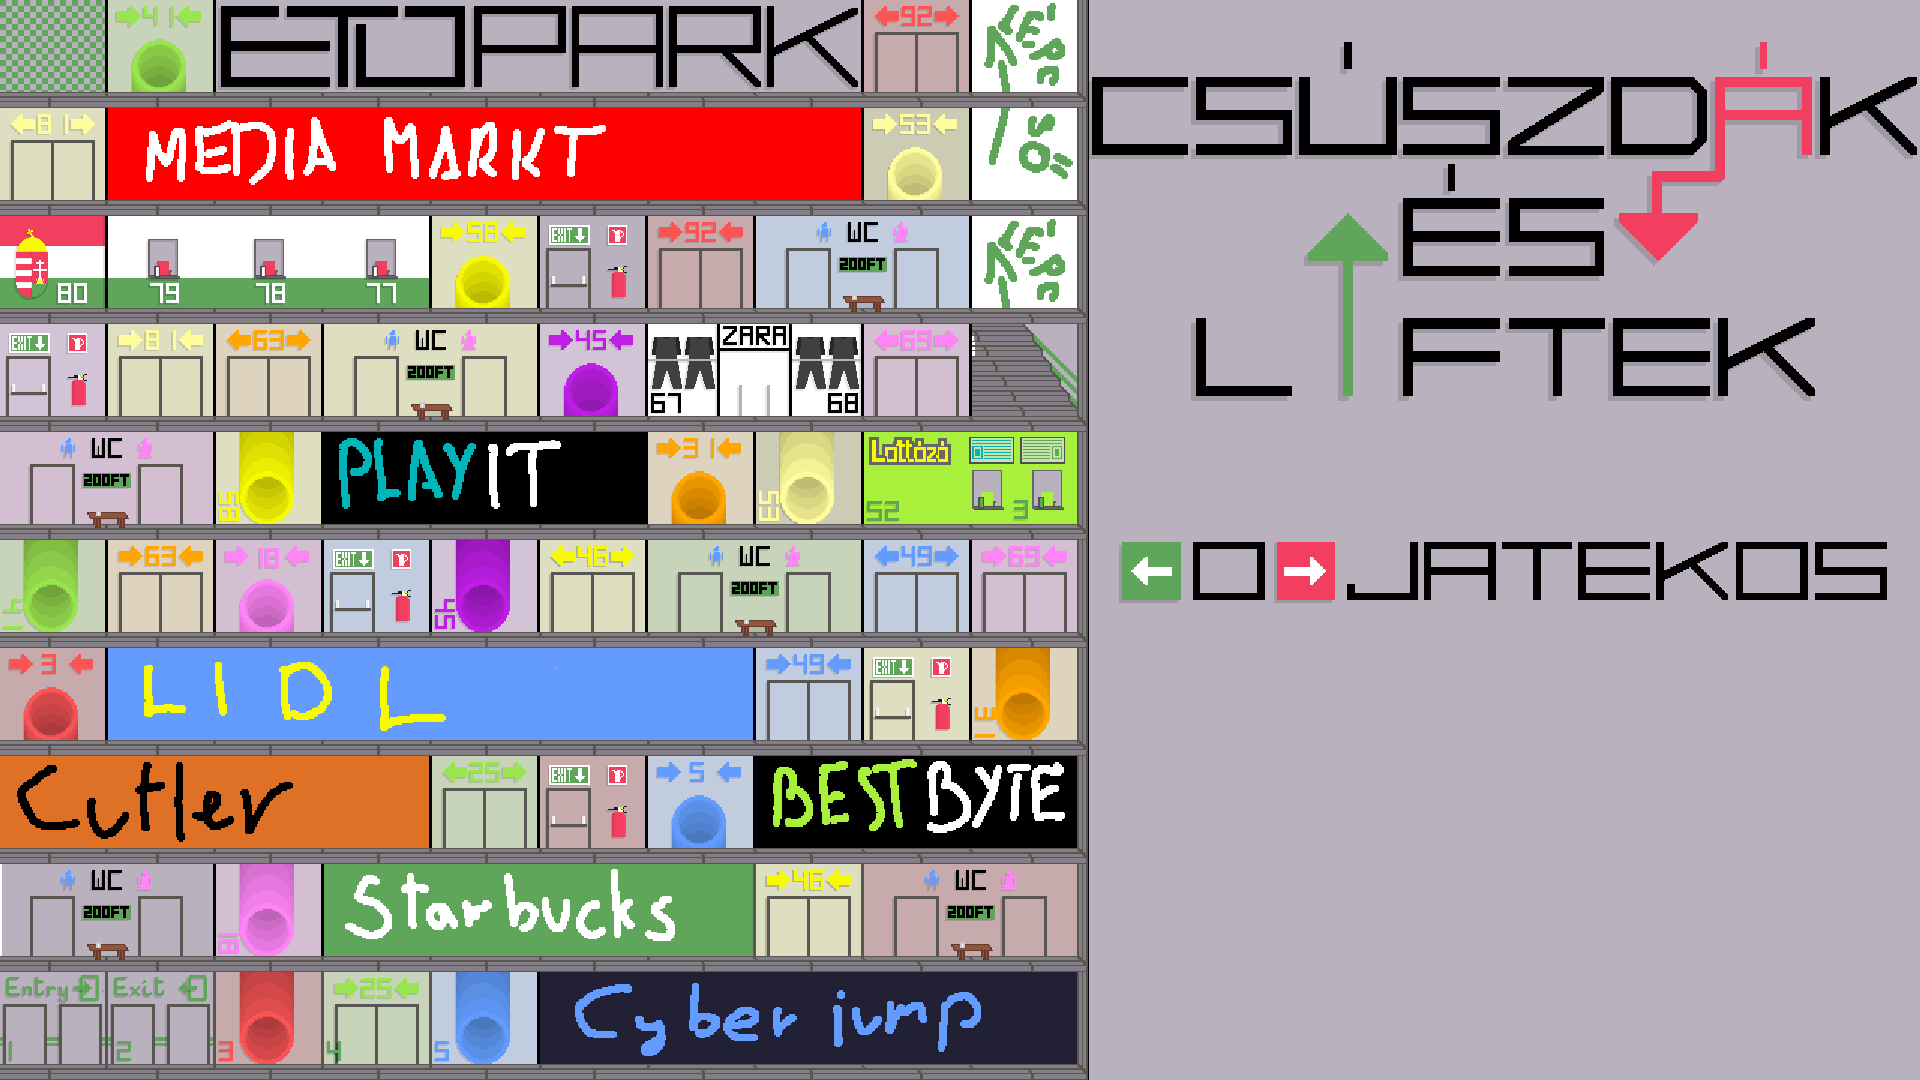
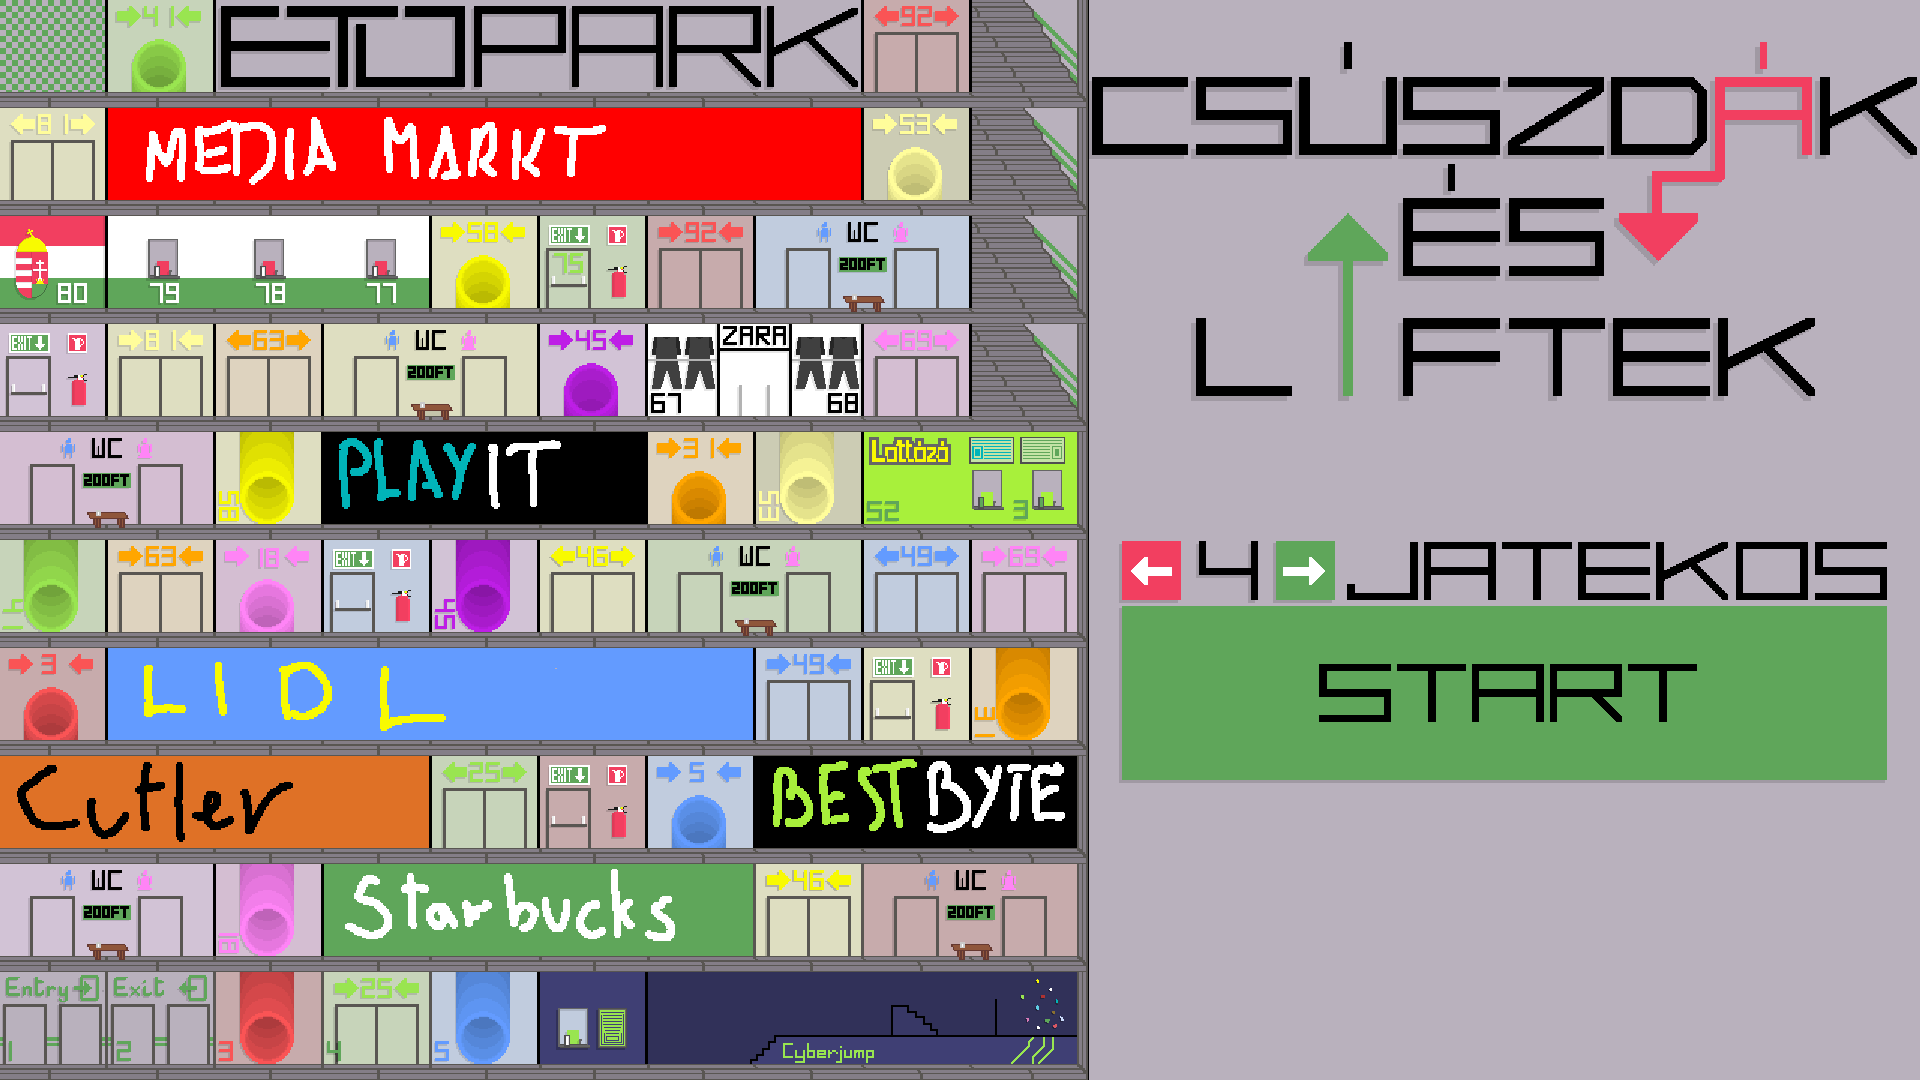
Increase and decrease button works Added start button

diff --git a/script.js b/script.js
@@ -1,4 +1,5 @@
 var background;
+var playerCountDisplay;
 var connections = [
   new Connection(4, 25), 
   new Connection(13, 46), 
@@ -19,11 +20,15 @@ var playerCount = 1;
 var currentPlayerIndex = 0;
 var players = [];
 var mouse_position = [0, 0];
-var increasebtn = new Button(59, 59, 1122, 541);
-var decreasebtn = new Button(59, 59, 1276, 541);
+var buttons = [
+  new Button(59, 59, 1122, 541, DecreasePlayer),
+  new Button(59, 59, 1276, 541, IncreasePlayer),
+  new Button(765, 174, 1122, 606, null) //Norbi feladata a gomb működése
+];
 
 function startGame() {
   background = new GameObject(1920, 1080, "Assets/Background.png", 0, 0, "image");
+  playerCountDisplay = new GameObject(62, 62, "Assets/1.png", 1196, 541, "image");
   players.push(new Player("blue"));
   players.push(new Player("green"));
   players.push(new Player("red"));
@@ -45,17 +50,19 @@ var myGameArea = {
   },
 };
 
-function Button(width, height, x, y) {
+function Button(width, height, x, y, onclick) {
   this.width = width;
   this.height = height;
   this.x = x;
   this.y = y;
   this.x2 = x + width;
   this.y2 = y + height;
-  this.update = function () {
+  this.onclick = onclick;
+  this.clicked = function () {
     if (mouse_position[0] >= this.x && mouse_position[0] <= this.x2) {
       if (mouse_position[1] >= this.y && mouse_position[1] <= this.y2) {
-        // console.log("asd");
+        console.log(playerCount);
+        this.onclick();
       }
     }
   };
@@ -107,11 +114,11 @@ function Connection(start, end) {
 function updateGameArea() {
   myGameArea.clear();
   background.update();
+  playerCountDisplay.img.src = `Assets/${playerCount}.png`;
+  playerCountDisplay.update();
   players.forEach(player => {
     player.update();
   });
-  increasebtn.update();
-  decreasebtn.update();
 }
 
 function DecreasePlayer() {
@@ -128,7 +135,6 @@ function IncreasePlayer() {
 
 function tellPos(p) {
   mouse_position = [p.pageX, p.pageY];
-  console.log(`x: ${p.pageX}\ny: ${p.pageY}`);
 }
 addEventListener("mousemove", tellPos, false);
 
@@ -159,3 +165,11 @@ function rollAndMove(){
     }
 
 }
+
+function onclick() {
+  buttons.forEach(button => {
+    button.clicked();
+  });
+}
+
+addEventListener("click", onclick, false);
